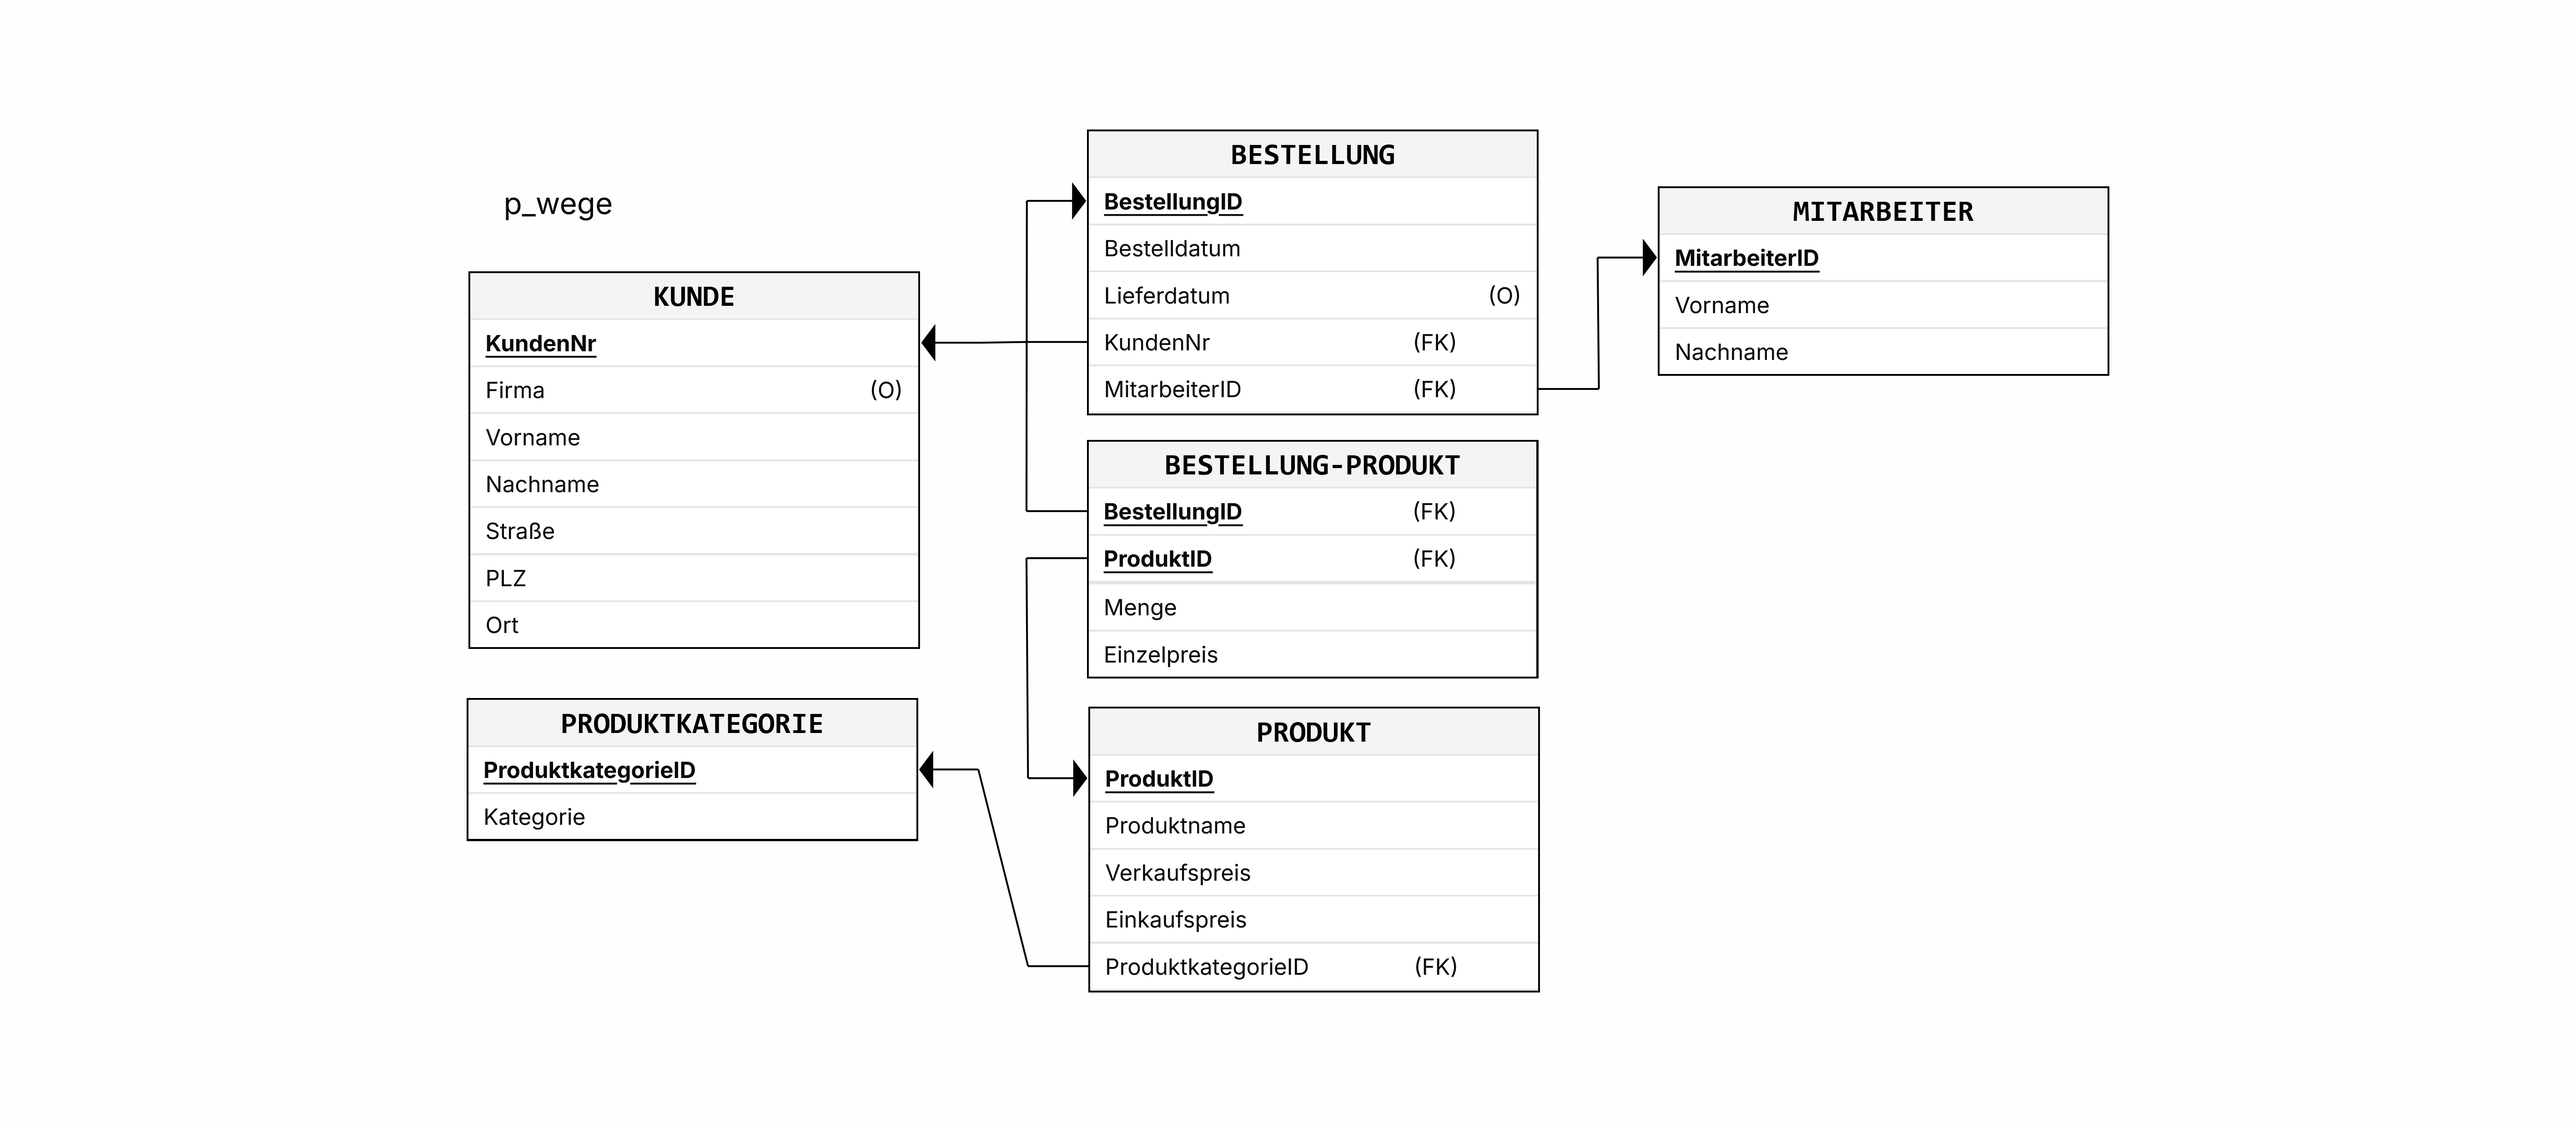
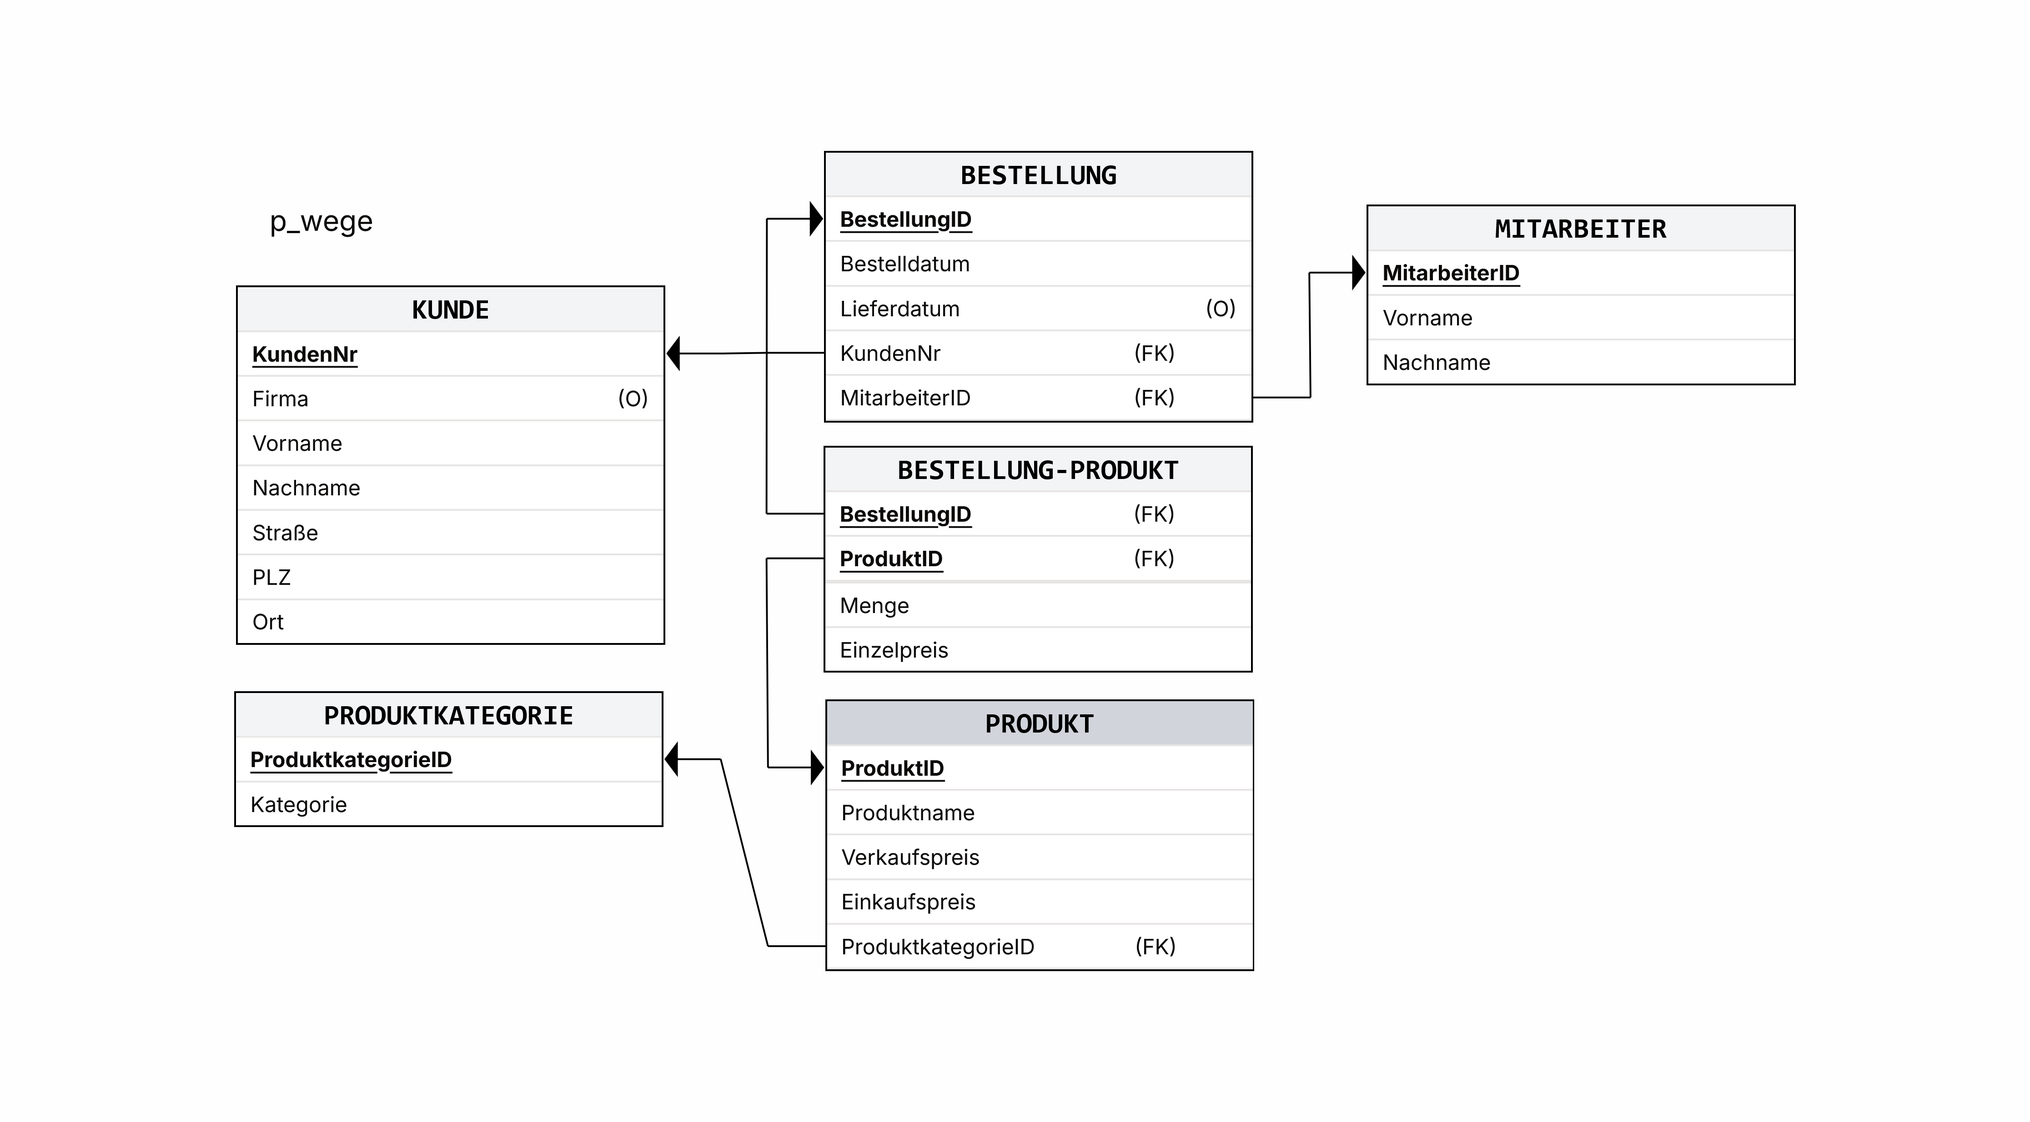
Datenbanken Tag 4

diff --git a/db/modelle/Bikeshop/ERDPLUS-Export/ERDPLUS-Export.md b/db/modelle/Bikeshop/ERDPLUS-Export/ERDPLUS-Export.md
@@ -1,0 +1,66 @@
+# ERDPLUS-Export
+
+Nachfolgender SQL-Code wurde von ERDPlus generiert und darf so nicht ausgeführt werden, weil die Angabe fehlt, in welche Datenbank geschrieben wird:
+
+```sql
+CREATE TABLE KUNDE
+(
+  KundenNr INT NOT NULL,
+  Firma VARCHAR(100),
+  Vorname VARCHAR(100) NOT NULL,
+  Nachname VARCHAR(100) NOT NULL,
+  Straße VARCHAR(100) NOT NULL,
+  PLZ VARCHAR(5) NOT NULL,
+  Ort VARCHAR(100) NOT NULL,
+  PRIMARY KEY (KundenNr)
+);
+
+CREATE TABLE MITARBEITER
+(
+  MitarbeiterID INT NOT NULL,
+  Vorname VARCHAR(100) NOT NULL,
+  Nachname VARCHAR(100) NOT NULL,
+  PRIMARY KEY (MitarbeiterID)
+);
+
+CREATE TABLE BESTELLUNG
+(
+  BestellungID INT NOT NULL,
+  Bestelldatum DATE NOT NULL,
+  Lieferdatum DATE,
+  KundenNr INT NOT NULL,
+  MitarbeiterID INT NOT NULL,
+  PRIMARY KEY (BestellungID),
+  FOREIGN KEY (KundenNr) REFERENCES KUNDE(KundenNr),
+  FOREIGN KEY (MitarbeiterID) REFERENCES MITARBEITER(MitarbeiterID)
+);
+
+CREATE TABLE PRODUKTKATEGORIE
+(
+  ProduktkategorieID INT NOT NULL,
+  Kategorie VARCHAR(100) NOT NULL,
+  PRIMARY KEY (ProduktkategorieID)
+);
+
+CREATE TABLE PRODUKT
+(
+  ProduktID INT NOT NULL,
+  Produktname INT NOT NULL,
+  Verkaufspreis NUMERIC(9,2) NOT NULL,
+  Einkaufspreis NUMERIC(9,2) NOT NULL,
+  ProduktkategorieID INT NOT NULL,
+  PRIMARY KEY (ProduktID),
+  FOREIGN KEY (ProduktkategorieID) REFERENCES PRODUKTKATEGORIE(ProduktkategorieID)
+);
+
+CREATE TABLE BESTELLUNG-PRODUKT
+(
+  Menge INT NOT NULL,
+  Einzelpreis NUMERIC(9,2) NOT NULL,
+  BestellungID INT NOT NULL,
+  ProduktID INT NOT NULL,
+  PRIMARY KEY (BestellungID, ProduktID),
+  FOREIGN KEY (BestellungID) REFERENCES BESTELLUNG(BestellungID),
+  FOREIGN KEY (ProduktID) REFERENCES PRODUKT(ProduktID)
+);
+```

diff --git a/db/notizen/09-07-2026.md b/db/notizen/09-07-2026.md
@@ -1,0 +1,20 @@
+# Datenbanken Tag 4
+
+- Wiederholung für eine einzelne Person 😠
+- Datentypen in ISO/IEC 9075 Standard SQL
+- Aus der Tabelle in ERDPlus den SQL-Code generiert und ausgeführt.
+
+## Kriterien für die Auswahl von Datentypen
+
+1. Der Typ muss grundsätzlich geeignet sein.
+    - Text kann nicht in ein Attribut mit Zahl-Datentyp gespeichert werden.
+2. Der konkrete Datentyp soll keinen Platz verschwenden.
+    - Wähle Datentyp mit geeignetem, aber nicht zu großen Werteumfang.
+
+### CHAR vs. VARCHAR
+
+- Beispiel: "Hans"
+  - CHAR(100): 100 Bytes
+  - VARCHAR(100): 4+2 = 6 Bytes
+  - NCHAR(100): 200 Bytes
+  - NVARCHAR(100): 2*4+2 = 10 Bytes
